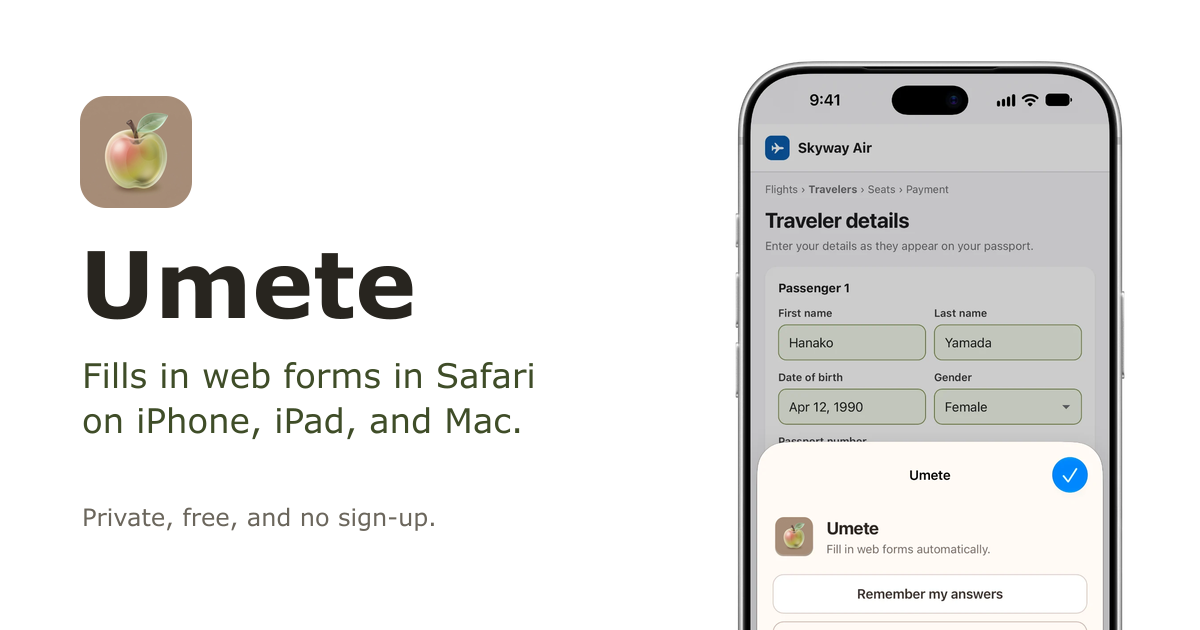
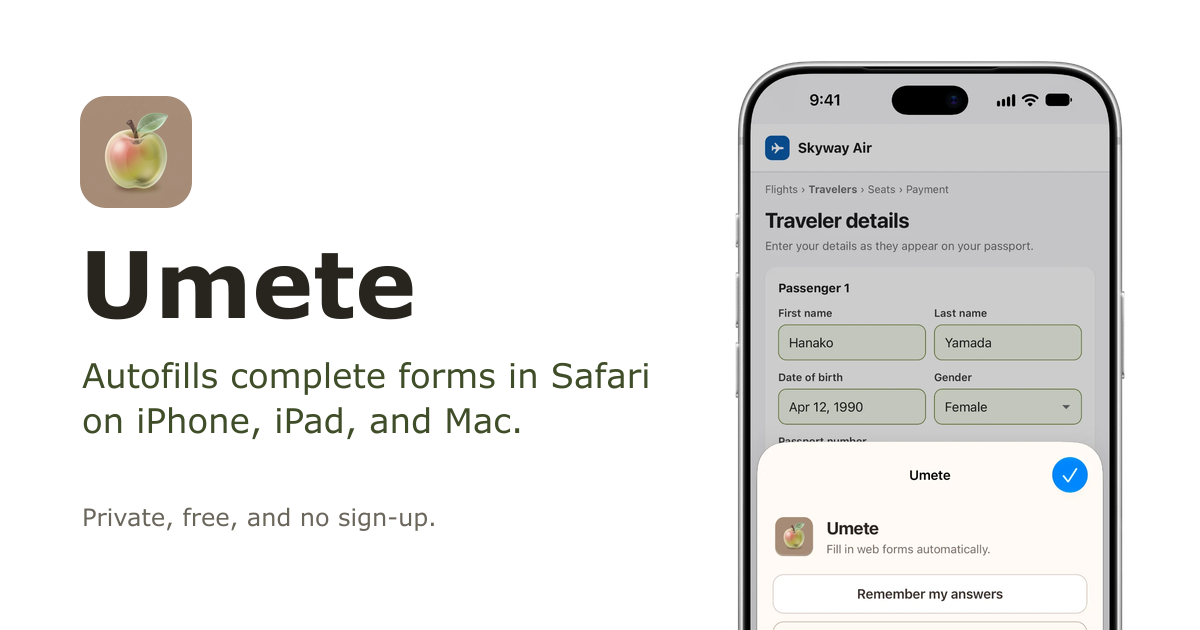
Umete link preview: "Autofills complete forms in Safari on iPhone, iPad, and Mac."
The card, the description, and the image's alt text say it the same way.
Cache version v4.

Changed region(s): [[0.0617, 0.573, 0.555, 0.6333]]

diff --git a/ume.html b/ume.html
@@ -10,22 +10,22 @@
   <link rel="apple-touch-icon" href="assets/umete-glass-icon.png?v=1">
   <link rel="canonical" href="https://umete.jp/">
   <meta name="viewport" content="width=device-width, initial-scale=1">
-  <meta name="description" content="Umete is a Safari extension for iPhone, iPad, and Mac that fills in whole web forms with answers you’ve saved before, matching fields privately on your device. Free, with no sign-up." data-label-en="Umete is a Safari extension for iPhone, iPad, and Mac that fills in whole web forms with answers you’ve saved before, matching fields privately on your device. Free, with no sign-up." data-label-ja="Umeteは、iPhone、iPad、Macで使えるSafari機能拡張です。以前に保存した回答でWebフォーム全体に入力し、項目の照合はデバイス上でプライバシーを守って行います。無料で、登録も不要です。">
+  <meta name="description" content="Umete is a Safari extension for iPhone, iPad, and Mac that autofills complete web forms with answers you’ve saved before, matching fields privately on your device. Free, with no sign-up." data-label-en="Umete is a Safari extension for iPhone, iPad, and Mac that autofills complete web forms with answers you’ve saved before, matching fields privately on your device. Free, with no sign-up." data-label-ja="Umeteは、iPhone、iPad、Macで使えるSafari機能拡張です。以前に保存した回答でWebフォーム全体を自動入力し、項目の照合はデバイス上でプライバシーを守って行います。無料で、登録も不要です。">
   <meta property="og:title" content="Umete: Autofill everything, privately" data-label-en="Umete: Autofill everything, privately" data-label-ja="Umete：あらゆるフォームに、プライバシーを守って自動入力">
   <meta property="og:type" content="website">
   <meta property="og:url" content="https://umete.jp/">
   <meta property="og:site_name" content="Umete">
-  <meta property="og:description" content="Umete is a Safari extension for iPhone, iPad, and Mac that fills in whole web forms with answers you’ve saved before, matching fields privately on your device. Free, with no sign-up." data-label-en="Umete is a Safari extension for iPhone, iPad, and Mac that fills in whole web forms with answers you’ve saved before, matching fields privately on your device. Free, with no sign-up." data-label-ja="Umeteは、iPhone、iPad、Macで使えるSafari機能拡張です。以前に保存した回答でWebフォーム全体に入力し、項目の照合はデバイス上でプライバシーを守って行います。無料で、登録も不要です。">
-  <meta property="og:image" content="https://umete.jp/assets/umete-social.png?v=3">
-  <meta property="og:image:secure_url" content="https://umete.jp/assets/umete-social.png?v=3">
+  <meta property="og:description" content="Umete is a Safari extension for iPhone, iPad, and Mac that autofills complete web forms with answers you’ve saved before, matching fields privately on your device. Free, with no sign-up." data-label-en="Umete is a Safari extension for iPhone, iPad, and Mac that autofills complete web forms with answers you’ve saved before, matching fields privately on your device. Free, with no sign-up." data-label-ja="Umeteは、iPhone、iPad、Macで使えるSafari機能拡張です。以前に保存した回答でWebフォーム全体を自動入力し、項目の照合はデバイス上でプライバシーを守って行います。無料で、登録も不要です。">
+  <meta property="og:image" content="https://umete.jp/assets/umete-social.png?v=4">
+  <meta property="og:image:secure_url" content="https://umete.jp/assets/umete-social.png?v=4">
   <meta property="og:image:type" content="image/png">
   <meta property="og:image:width" content="1200">
   <meta property="og:image:height" content="630">
-  <meta property="og:image:alt" content="Umete: fills in web forms in Safari on iPhone, iPad, and Mac. Beside it, an airline form on iPhone that Umete filled in.">
+  <meta property="og:image:alt" content="Umete: autofills complete forms in Safari on iPhone, iPad, and Mac. Beside it, an airline form on iPhone that Umete filled in.">
   <meta name="twitter:card" content="summary_large_image">
   <meta name="twitter:title" content="Umete: Autofill everything, privately" data-label-en="Umete: Autofill everything, privately" data-label-ja="Umete：あらゆるフォームに、プライバシーを守って自動入力">
-  <meta name="twitter:description" content="Umete is a Safari extension for iPhone, iPad, and Mac that fills in whole web forms with answers you’ve saved before, matching fields privately on your device. Free, with no sign-up." data-label-en="Umete is a Safari extension for iPhone, iPad, and Mac that fills in whole web forms with answers you’ve saved before, matching fields privately on your device. Free, with no sign-up." data-label-ja="Umeteは、iPhone、iPad、Macで使えるSafari機能拡張です。以前に保存した回答でWebフォーム全体に入力し、項目の照合はデバイス上でプライバシーを守って行います。無料で、登録も不要です。">
-  <meta name="twitter:image" content="https://umete.jp/assets/umete-social.png?v=3">
+  <meta name="twitter:description" content="Umete is a Safari extension for iPhone, iPad, and Mac that autofills complete web forms with answers you’ve saved before, matching fields privately on your device. Free, with no sign-up." data-label-en="Umete is a Safari extension for iPhone, iPad, and Mac that autofills complete web forms with answers you’ve saved before, matching fields privately on your device. Free, with no sign-up." data-label-ja="Umeteは、iPhone、iPad、Macで使えるSafari機能拡張です。以前に保存した回答でWebフォーム全体を自動入力し、項目の照合はデバイス上でプライバシーを守って行います。無料で、登録も不要です。">
+  <meta name="twitter:image" content="https://umete.jp/assets/umete-social.png?v=4">
   <script type="application/ld+json">
 {
     "@context": "https://schema.org",
@@ -71,7 +71,7 @@
     }
 }
   </script>
-  <meta name="twitter:image:alt" content="Umete: fills in web forms in Safari on iPhone, iPad, and Mac. Beside it, an airline form on iPhone that Umete filled in.">
+  <meta name="twitter:image:alt" content="Umete: autofills complete forms in Safari on iPhone, iPad, and Mac. Beside it, an airline form on iPhone that Umete filled in.">
   <style>
     :root {
       --ume-ink: #28251f;

diff --git a/ume-technote-un001.html b/ume-technote-un001.html
@@ -47,7 +47,7 @@
   <meta property="og:url" content="https://umete.jp/technotes/un001">
   <meta property="og:site_name" content="Umete">
   <meta property="og:description" content="How I test Umete’s form matching on 220 saved forms from Chromium’s and Firefox’s autofill tests, what the test caught, and how much AI matching adds." data-label-en="How I test Umete’s form matching on 220 saved forms from Chromium’s and Firefox’s autofill tests, what the test caught, and how much AI matching adds." data-label-ja="ChromiumとFirefoxの自動入力テストに使われている220の保存済みフォームでUmeteのフォーム照合をテストする方法、そのテストで見つかったこと、そしてAIマッチングでどれだけ改善するか。">
-  <meta property="og:image" content="https://umete.jp/assets/umete-social.png?v=3">
+  <meta property="og:image" content="https://umete.jp/assets/umete-social.png?v=4">
   <meta name="twitter:card" content="summary_large_image">
 </head>
 <body class="sasu-site">

diff --git a/ume-specs.html b/ume-specs.html
@@ -15,7 +15,7 @@
   <meta property="og:url" content="https://umete.jp/specs">
   <meta property="og:site_name" content="Umete">
   <meta property="og:description" content="How Umete matches form fields, what AI matching sees, and how answers are encrypted and synced." data-label-en="How Umete matches form fields, what AI matching sees, and how answers are encrypted and synced." data-label-ja="Umeteがフォーム項目をどう照合し、AIマッチングが何を見て、回答をどう暗号化・同期するか。">
-  <meta property="og:image" content="https://umete.jp/assets/umete-social.png?v=3">
+  <meta property="og:image" content="https://umete.jp/assets/umete-social.png?v=4">
   <meta name="twitter:card" content="summary_large_image">
   <style>
     body.sasu-site { background: #fff; }

diff --git a/ume-privacy.html b/ume-privacy.html
@@ -15,7 +15,7 @@
   <meta property="og:url" content="https://umete.jp/privacy">
   <meta property="og:site_name" content="Umete">
   <meta property="og:description" content="How Umete handles your saved answers, the forms you fill, and AI matching." data-label-en="How Umete handles your saved answers, the forms you fill, and AI matching." data-label-ja="Umeteが保存した回答、入力するフォーム、AIマッチングをどう扱うか。">
-  <meta property="og:image" content="https://umete.jp/assets/umete-social.png?v=3">
+  <meta property="og:image" content="https://umete.jp/assets/umete-social.png?v=4">
   <meta name="twitter:card" content="summary_large_image">
   <style>
     body.sasu-site { background: #fff; }

diff --git a/ume-technotes.html b/ume-technotes.html
@@ -47,7 +47,7 @@
   <meta property="og:url" content="https://umete.jp/technotes">
   <meta property="og:site_name" content="Umete">
   <meta property="og:description" content="Notes on how Umete works and what I’ve learned while working on it." data-label-en="Notes on how Umete works and what I’ve learned while working on it." data-label-ja="Umeteの仕組みと、開発中に学んだことをまとめたノートです。">
-  <meta property="og:image" content="https://umete.jp/assets/umete-social.png?v=3">
+  <meta property="og:image" content="https://umete.jp/assets/umete-social.png?v=4">
   <meta name="twitter:card" content="summary_large_image">
 </head>
 <body class="sasu-site">

diff --git a/ume-support.html b/ume-support.html
@@ -15,7 +15,7 @@
   <meta property="og:url" content="https://umete.jp/support">
   <meta property="og:site_name" content="Umete">
   <meta property="og:description" content="Setting up Umete, using it, and fixing common problems." data-label-en="Setting up Umete, using it, and fixing common problems." data-label-ja="Umeteの設定、使い方、よくある問題の解決方法。">
-  <meta property="og:image" content="https://umete.jp/assets/umete-social.png?v=3">
+  <meta property="og:image" content="https://umete.jp/assets/umete-social.png?v=4">
   <meta name="twitter:card" content="summary_large_image">
   <style>
     body.sasu-site { background: #fff; }

diff --git a/ume-acknowledgements.html b/ume-acknowledgements.html
@@ -15,7 +15,7 @@
   <meta property="og:url" content="https://umete.jp/acknowledgements">
   <meta property="og:site_name" content="Umete">
   <meta property="og:description" content="Open-source software used in Umete." data-label-en="Open-source software used in Umete." data-label-ja="Umeteで使用しているオープンソースソフトウェア。">
-  <meta property="og:image" content="https://umete.jp/assets/umete-social.png?v=3">
+  <meta property="og:image" content="https://umete.jp/assets/umete-social.png?v=4">
   <meta name="twitter:card" content="summary_large_image">
   <style>
     body.sasu-site { background: #fff; }

diff --git a/ume-changelog.html b/ume-changelog.html
@@ -14,7 +14,7 @@
   <meta property="og:type" content="website">
   <meta property="og:url" content="https://umete.jp/changelog">
   <meta property="og:site_name" content="Umete">
-  <meta property="og:image" content="https://umete.jp/assets/umete-social.png?v=3">
+  <meta property="og:image" content="https://umete.jp/assets/umete-social.png?v=4">
   <meta name="twitter:card" content="summary_large_image">
   <style>
     body.sasu-site { background: #fff; }
